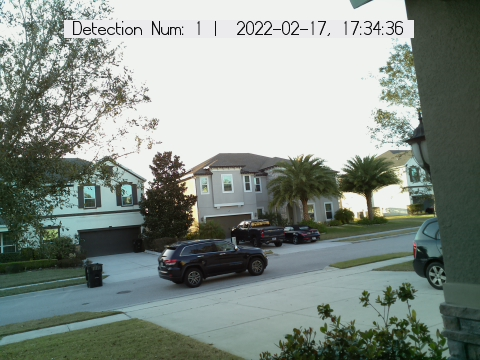
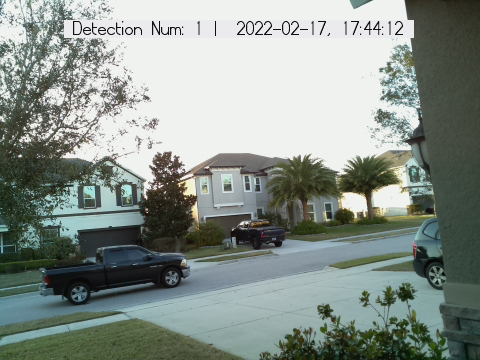
Commiting photos and text.

diff --git a/README.md b/README.md
@@ -1,2 +1,2 @@
 
-Detection Num: 1 |  2022-02-17, 17:34:36<br />
+Detection Num: 1 |  2022-02-17, 17:44:12<br />
